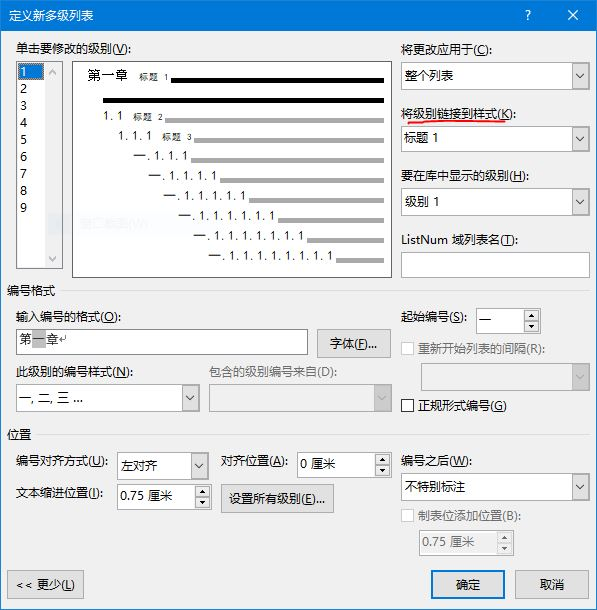
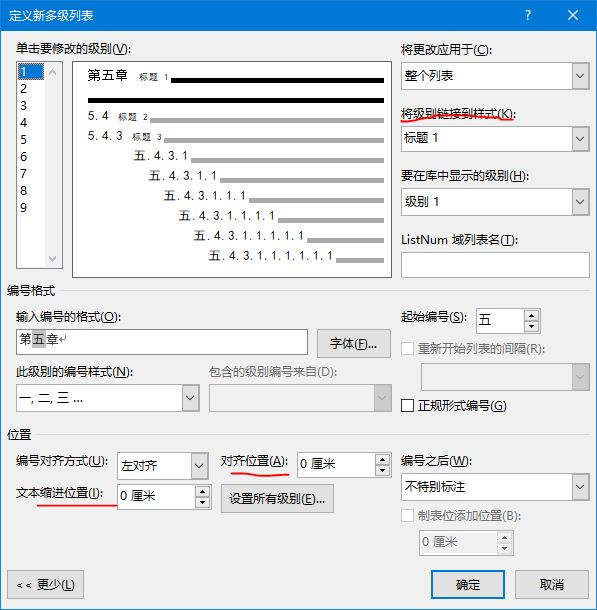
update

diff --git a/_posts/2020-02-05-thesis-typesetting.md b/_posts/2020-02-05-thesis-typesetting.md
@@ -12,11 +12,11 @@ tags:
 
 	软微给的模板没有给标题设定自动列表，这样不便于自动编号以及生成题注。
 
-	在Word中定义新的多级列表，将级别链接到样式，级别1到3对应于标题1到3。要求编号和标题之间空一格空格，这里我没有进行设置，选择手动添加。
+	在Word中定义新的多级列表，将级别链接到样式，级别1到3对应于标题1到3。注意标题1到3的缩进都是一样的。论文指南要求编号和标题之间空一汉字符，这里我没有进行设置，选择手动添加，详见本文第6条。
 
 	![](/album/thesis/list.jpg)
 
-	同时修改页眉，用域代码添加编号和章节名。
+	同时修改页眉，用域代码添加编号和章节名，中间隔一个汉字符。
 
 	![](/album/thesis/header.jpg)
 
